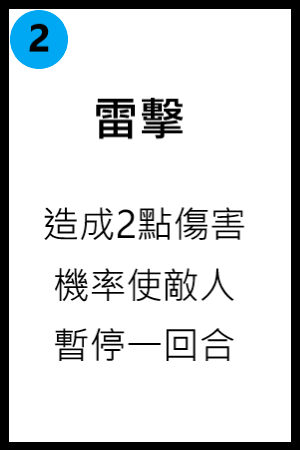
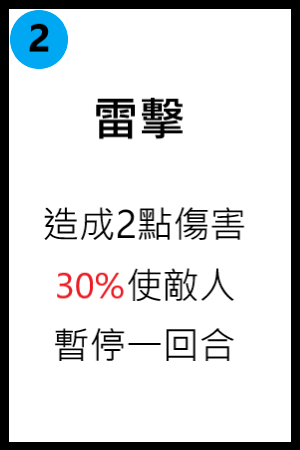
update card image

Changed region(s): [[0.18, 0.5911, 0.42, 0.6844]]

diff --git a/src/params.py b/src/params.py
@@ -25,7 +25,7 @@ class Special_card():
     add_magic = Card(-1,'回魔','add_magic',2,0,2,2,'兩回合\n  Mp+2')
     fire_card = Card(-1,'燃燒','fire',1,2,0,2,'每回合燒\n 敵人2hp\n 持續2回合')
     mud_card = Card(-1,'土盾','mud',1,2,0,3,'每回合獲得\n 2 護甲\n 持續3回合')
-    thurder_card = Card(-1,'雷擊','thurder',2,2,0,0,'造成2點傷害\n機率使敵人暫停一回合')
+    thurder_card = Card(-1,'雷擊','thurder',2,2,0,0,'造成2點傷害\n30%使敵人暫停一回合')
     
     magic_deck = [fire_card,mud_card,thurder_card]
     broke_shield = Card(-1,'破盾','brk_shd',2,0,0,0,'消除所有\n  護盾值')
